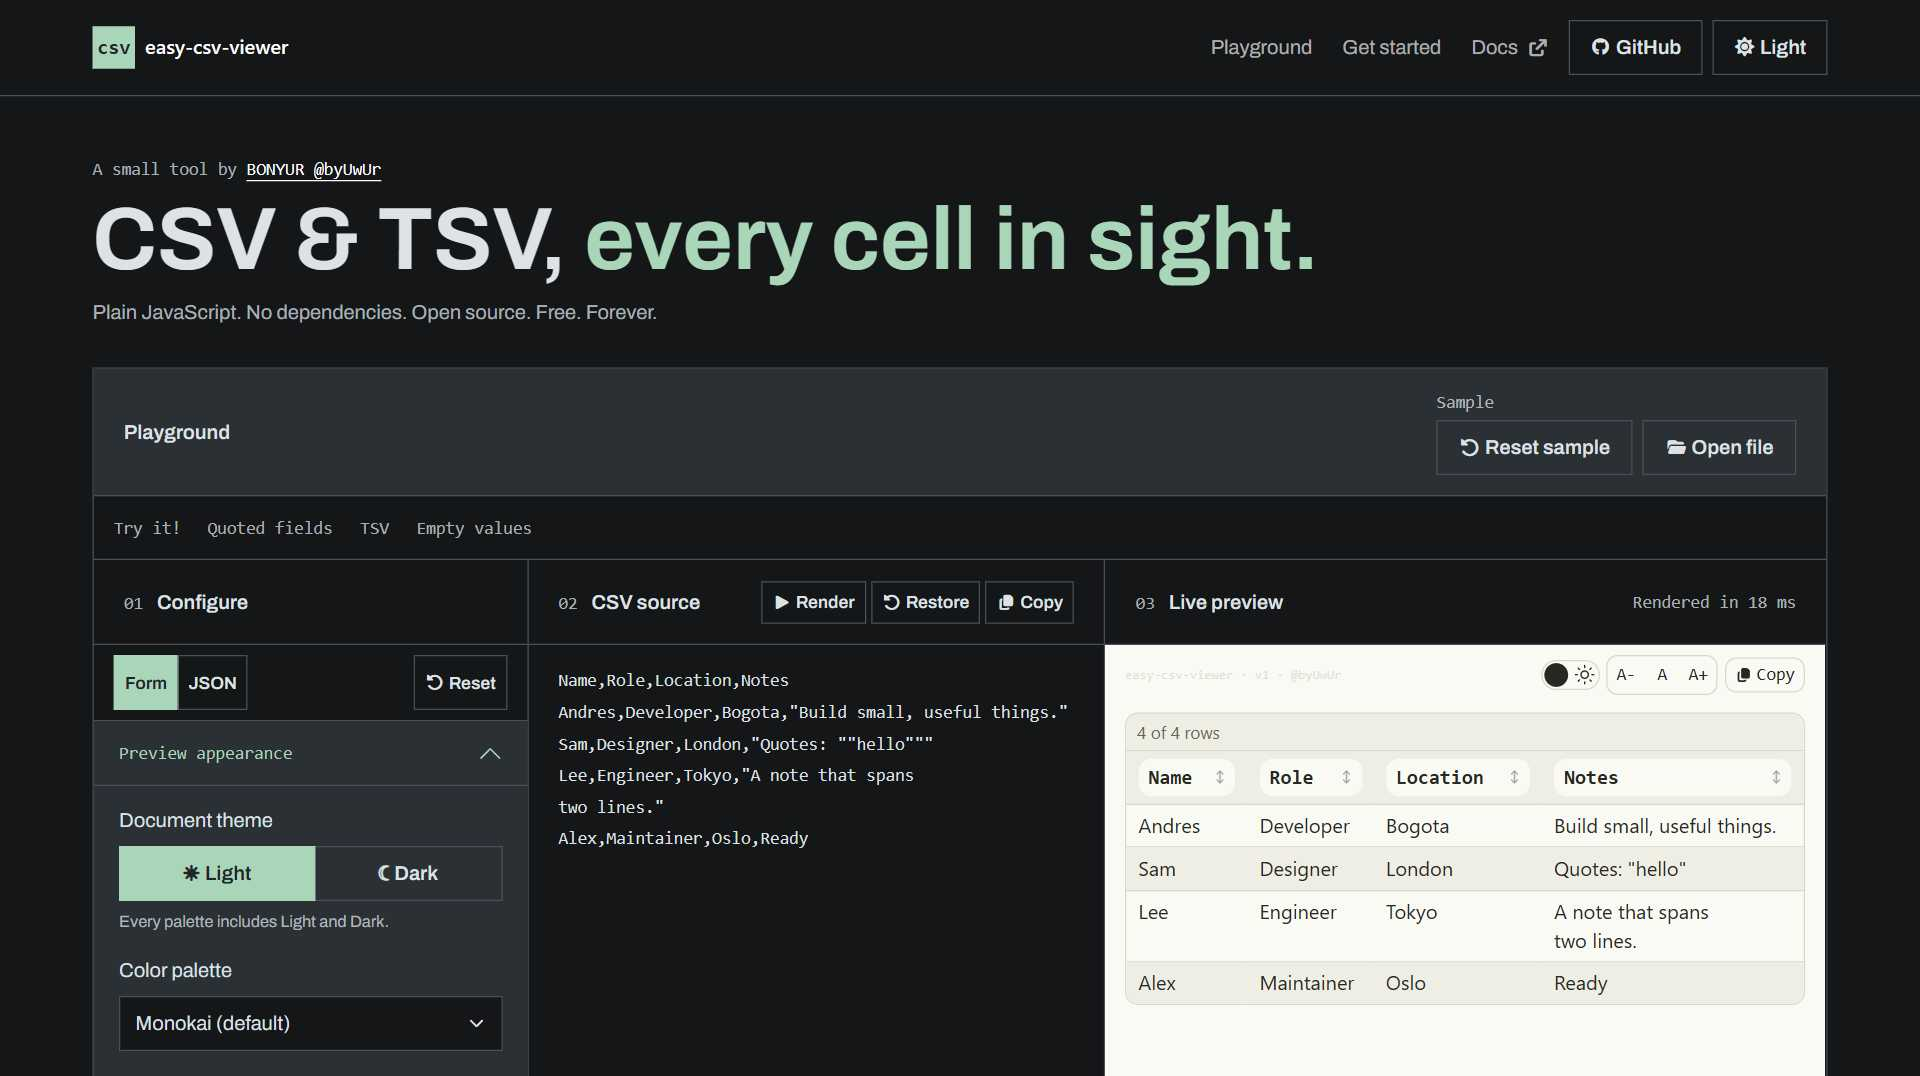
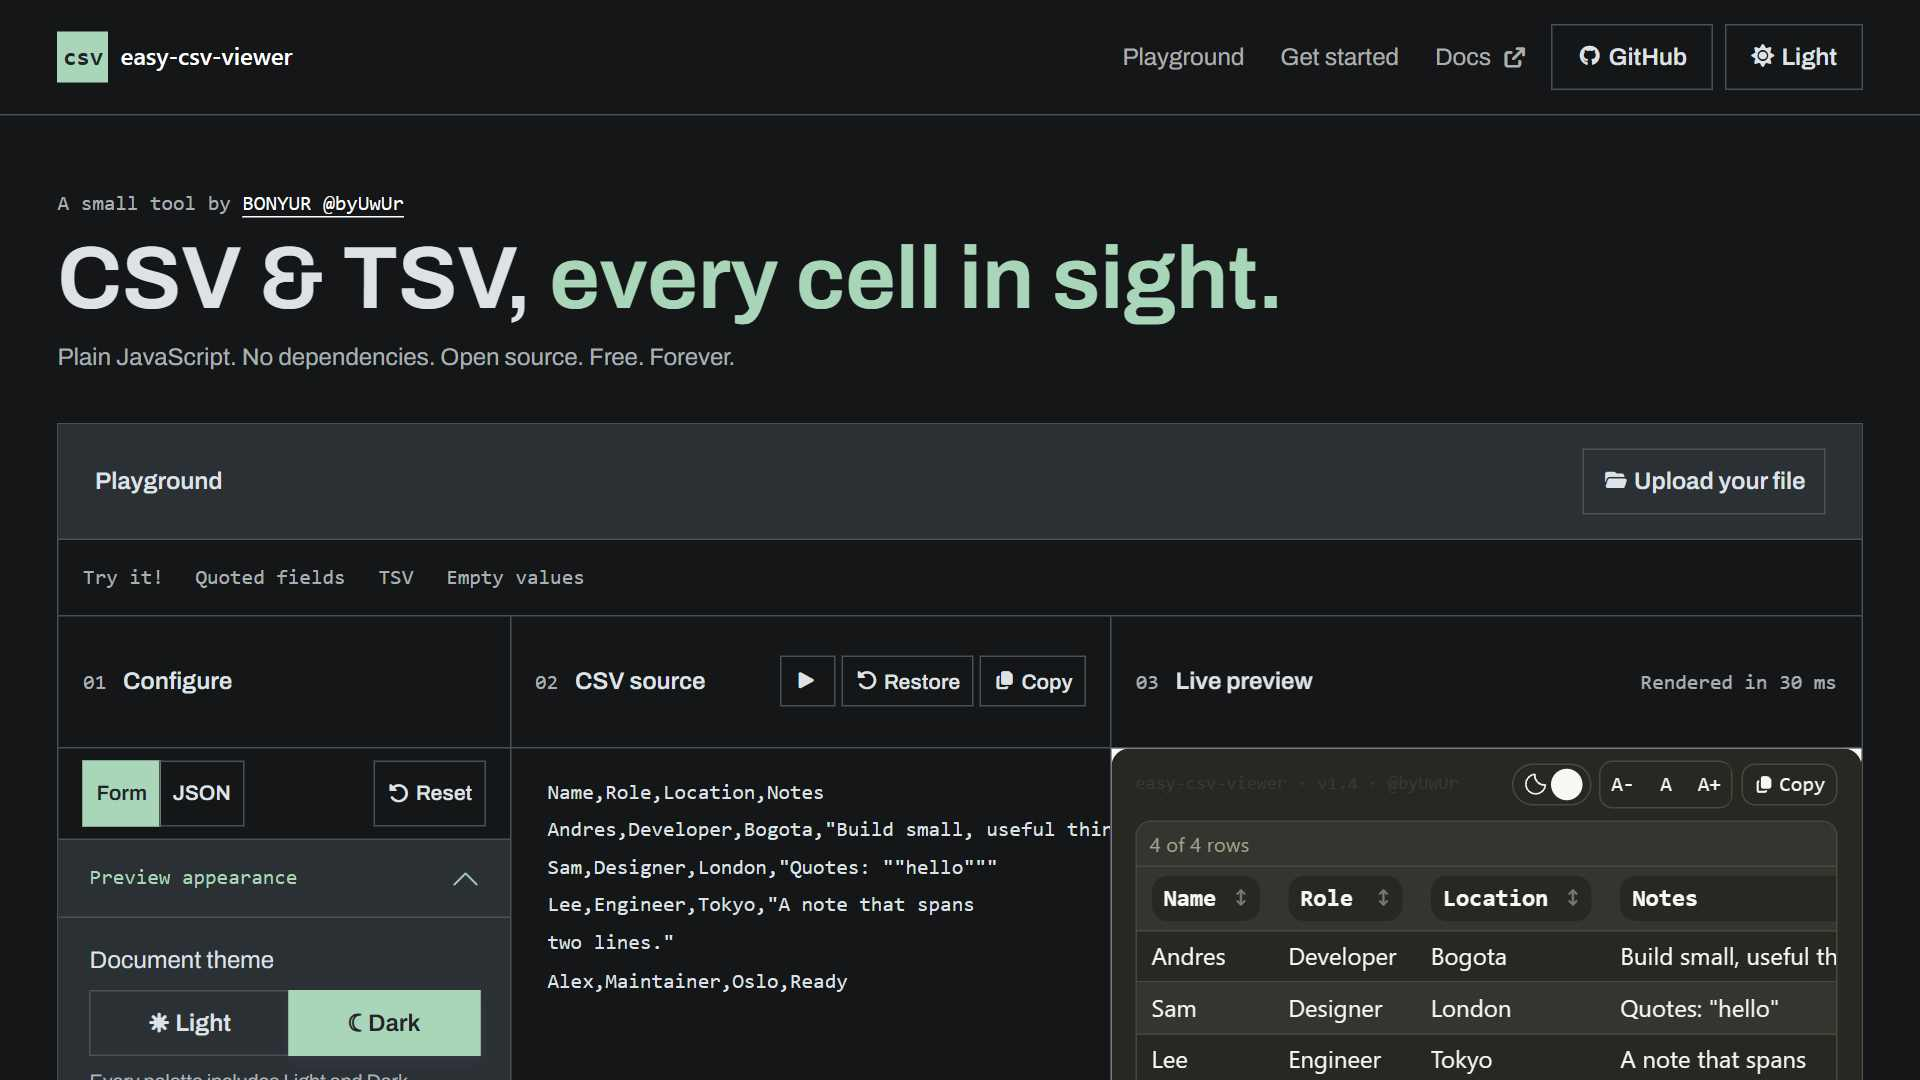
[Update] [Previews] Refresh the 1080p playground preview
Refresh the preview capture at 150% scaling, with exact 1920x1080 JPEG output capped at 100000 bytes. Align image-height metadata where present.

Validation: JPEG format, dimensions, and byte limits; affected-file diff checks.

diff --git a/index.html b/index.html
@@ -24,7 +24,7 @@
     <meta property="og:image" content="https://csv.byuwur.co/prev.jpg" />
     <meta property="og:image:type" content="image/jpeg" />
     <meta property="og:image:width" content="1920" />
-    <meta property="og:image:height" content="1076" />
+    <meta property="og:image:height" content="1080" />
     <meta property="og:image:alt" content="easy-csv-viewer by BONYUR: CSV &amp; TSV playground, options, source editor, and live preview." />
     <meta name="twitter:card" content="summary_large_image" />
     <meta name="twitter:creator" content="@byUwUr" />
